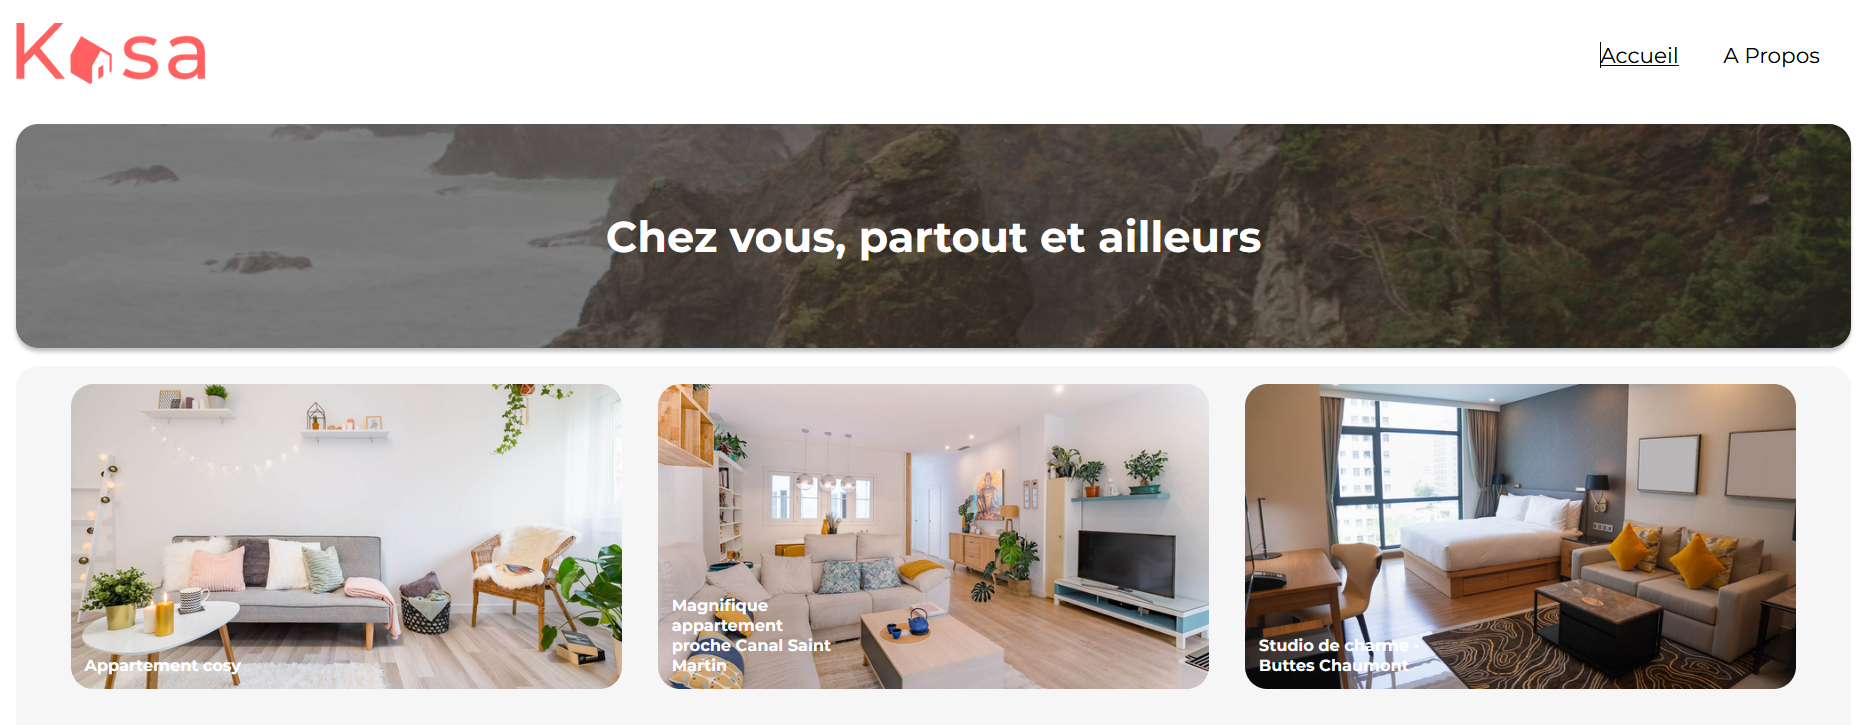
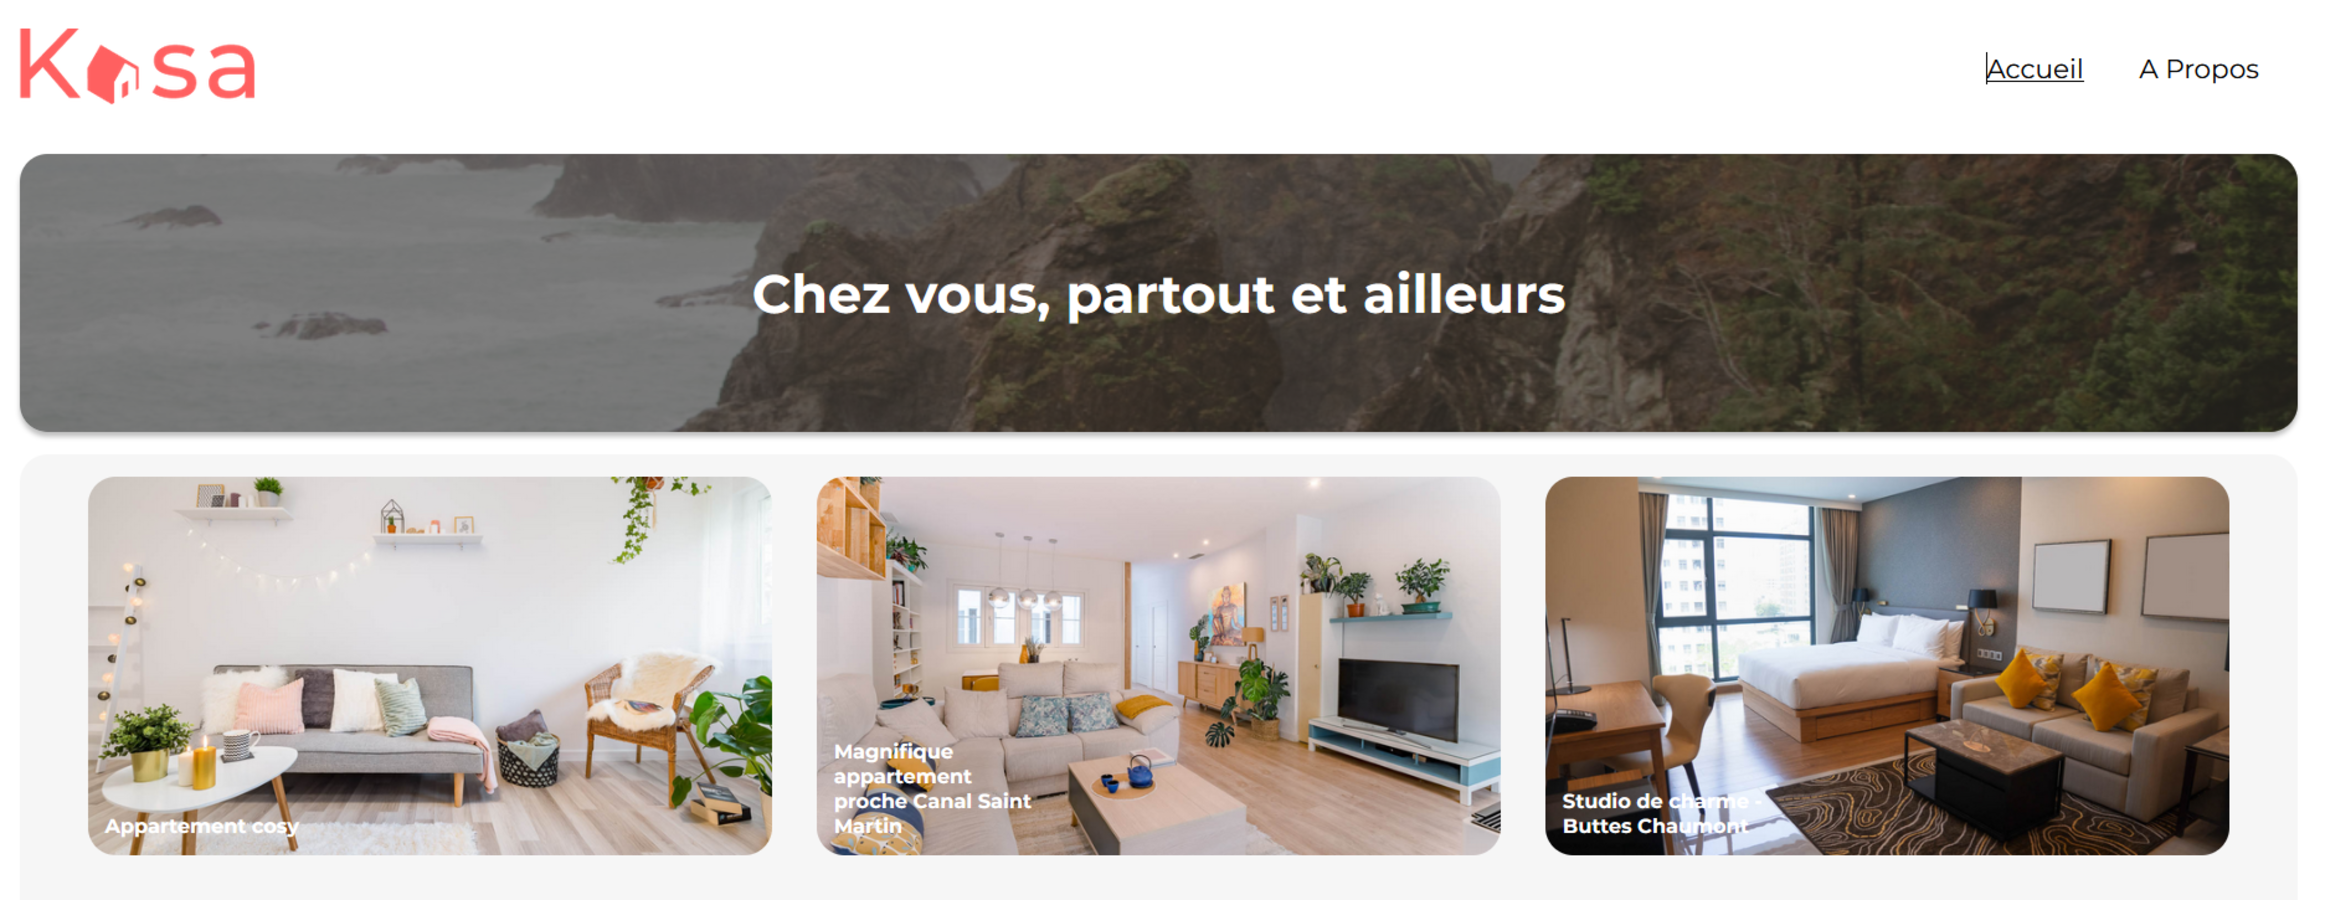
feat(Finalisation du Portfolio): etape finale avec les petits ajustements necessaires

diff --git a/src/components/slider.jsx b/src/components/slider.jsx
@@ -143,30 +143,24 @@ const Slider = ({
   ]);
 
   return (
-    <div className=" flex flex-col justify-center ">
+    <div className=" flex flex-col">
       <div
         id="slider-wrapper"
-        className="py-4 hidden lg:block xl:block 2xl:block "
+        className="py-4 hidden lg:block xl:block 2xl:block"
       >
         <div
           id="image-slider"
-          className="keen-slider w-100p"
+          className="keen-slider w-full max-h-[60vh] overflow-hidden"
           ref={imageSliderRef}
         >
           {slides.map((slide, index) => (
-            <div
-              key={index}
-              className={`keen-slider__slide flex flex-col justify-start items-center  ${
-                centralSlide === index ? "" : ""
-              }`}
-            >
-              <div className="rounded-xl  justify-center">
+            <div key={index} className="keen-slider__slide flex">
+              <div className="w-full h-full flex">
                 <img
-                  className={`object-contain rounded-xl ${
-                    centralSlide === index ? "cursor-pointer" : ""
-                  }`}
+                  className="object-contain w-full h-full transition-transform duration-300"
                   src={slide.imageUrl}
                   alt={slide.alt}
+                  loading="lazy"
                 />
               </div>
             </div>
@@ -175,15 +169,15 @@ const Slider = ({
         {enableText && (
           <div
             id="text-slider"
-            className="keen-slider relative z-10 rounded-xl flex-grow"
+            className="keen-slider relative z-10 rounded-xl pt-2"
             ref={textSliderRef}
           >
             {slides.map((slide, index) => (
               <div
                 key={index}
-                className="keen-slider__slide absolute top-0 opacity-100  flex-col justify-center "
+                className="keen-slider__slide flex justify-center items-center"
               >
-                <div className="text-white text-center opacity-100 font-medium align-middle px-4 ">
+                <div className="text-white text-center font-medium px-4">
                   {slide.text}
                 </div>
               </div>

diff --git a/src/components/modal.jsx b/src/components/modal.jsx
@@ -3,7 +3,7 @@ import Slider from "./slider";
 
 const Modal = ({ slides, onClose, github, name, presentation }) => {
   return (
-    <div className="fixed inset-0 flex items-center justify-center bg-black bg-opacity-80 z-50">
+    <dialog className="fixed inset-0 flex items-center justify-center bg-black bg-opacity-80 z-50 w-100p h-100p">
       <div className="relative bg-gray-800 rounded-lg shadow-lg overflow-scroll lg:overflow-hidden w-[90%] h-[90%]">
         <button
           className="sticky top-4 left-[90%] text-gray-800 text-xl sm:text-2xl bg-gray-200 px-2  rounded-lg hover:bg-gray-300 z-50"
@@ -11,9 +11,9 @@ const Modal = ({ slides, onClose, github, name, presentation }) => {
         >
           &times;
         </button>
-        <div className="p-4 flex flex-col justify-center items-center">
-          <h2 className="text-2xl font-bold text-white pb-4">{name}</h2>
-          <p className="mt-2 text-gray-400 w-90p lg:w-60p pb-4">
+        <div className="p-2 flex flex-col justify-center items-center">
+          <h2 className="text-2xl font-bold text-white pb-2">{name}</h2>
+          <p className="mt-2 text-gray-400 w-90p lg:w-80p pb-2 text-center">
             {presentation}
           </p>
         </div>
@@ -35,7 +35,7 @@ const Modal = ({ slides, onClose, github, name, presentation }) => {
           </a>
         </div>
       </div>
-    </div>
+    </dialog>
   );
 };
 

diff --git a/src/components/heroSlider.jsx b/src/components/heroSlider.jsx
@@ -42,11 +42,9 @@ const HeroSlider = ({ slides }) => {
               backgroundPosition: "center",
             }}
           >
-            <div className="text-center text-white flex flex-col items-center  ">
+            <div className="text-center text-white flex flex-col items-center w-2/4 ">
               <h2 className="text-4xl font-bold">{slide.title}</h2>
-              <p className="mt-4 text-lg w-3/4 align-center">
-                {slide.subtitle}
-              </p>
+              <p className="mt-4 text-lg  align-center">{slide.subtitle}</p>
             </div>
           </div>
         ))}

diff --git a/src/components/ScrollSection.jsx b/src/components/ScrollSection.jsx
@@ -122,7 +122,7 @@ const ScrollSection = ({ children }) => {
         <div
           ref={(el) => (sectionRefs.current[index] = el)}
           key={index}
-          className="h-screen w-full"
+          className="h-screen w-full z-10"
         >
           {child}
         </div>
